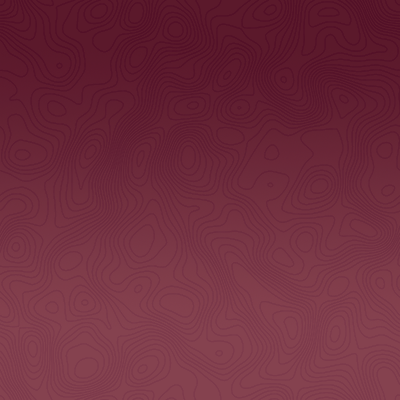
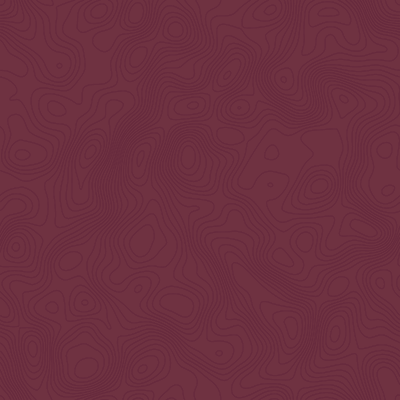
colors looking good, errors next

Changed region(s): [[0.0, 0.0, 1.0, 0.18]]

diff --git a/index.css b/index.css
@@ -4,7 +4,6 @@
 body{
 
   background-image: url("Viknow_backgroundOne.png");
-  opacity: .50%;
   font-family: 'Forum', cursive;
 
 }
@@ -18,6 +17,7 @@ h1{
   color: #E0D7D5;
   font-size: 50px;
   margin-bottom: 0;
+
 }
 fieldset{
   border: none;
@@ -26,6 +26,11 @@ h2{
   margin-top: 0;
   color: #E0D7D5;
   font-size: 18px;
+  margin-top: 10px;
+}
+.search-title{
+  display: inline;
+  margin-right: 15px;
 }
 label{
   display: block;
@@ -46,6 +51,7 @@ button{
   font-weight: bold;
   border-radius: 4px;
   outline-width: 0;
+  width: 200px;
 }
 button:hover{
   background-color: #E91689;
@@ -69,10 +75,10 @@ button:hover{
   border-color: #E91689;
 }
 .js-otherLocation{
-  border: 3px solid #622D3F;
-  background-color:#622D3F;
+  border: 3px solid #431c2a;
+  background-color:#431c2a;
   height: 40px;
-  width: 40%;
+  width: 25%;
   border-radius: 4px;
   outline-width: 0;
   padding-left: 15px;
@@ -113,13 +119,16 @@ button:hover{
   height:300px;
 }
 .js-returned{
-  background-color: #622D3F;
+  background-color: #994964;
+  border-color:#994964;
   color: white;
   border: none;
+  margin-right: 10px;
 }
 div.js-options{
   overflow:auto;
   white-space: nowrap;
+  
 
 }
 

diff --git a/index.html b/index.html
@@ -12,21 +12,22 @@
     <main role="main">
       <div class="titles">
       <h1>ViKnow</h1>
-      <h2>Where to Go</h2>
     </div>
       <form class="js-form" action="index.html" method="post">
         <fieldset>
+          <h2>Where to Go</h2>
       <button type="button" name="button" class=" js-wineries js-search">Wineries</button>
       <button type="button" name="button" class="js-tasteRooms js-search ">Tasting Rooms</button>
       </fieldset>
       </form>
 
       <form class="js-here hidden" action="index.html" method="post">
-        <h2>Where to Search</h2>
       <!-- BROKEN CURRENT LOCATION <button class='js-nearMe'>Use My Current Location</button> -->
       </form>
+
       <form class="js-where hidden" autocomplete="off" id="form">
-          <input type='text' class='js-otherLocation' placeholder="Search a Location ex. Sonoma, CA"/>
+          <h2 class='search-title'>Where to Search</h2>
+          <input type='text' class='js-otherLocation' placeholder="ex.. Sonoma, CA"/>
           <button type="submit" class="js-search-button" name="button">SEARCH</button>
       </form>
 
